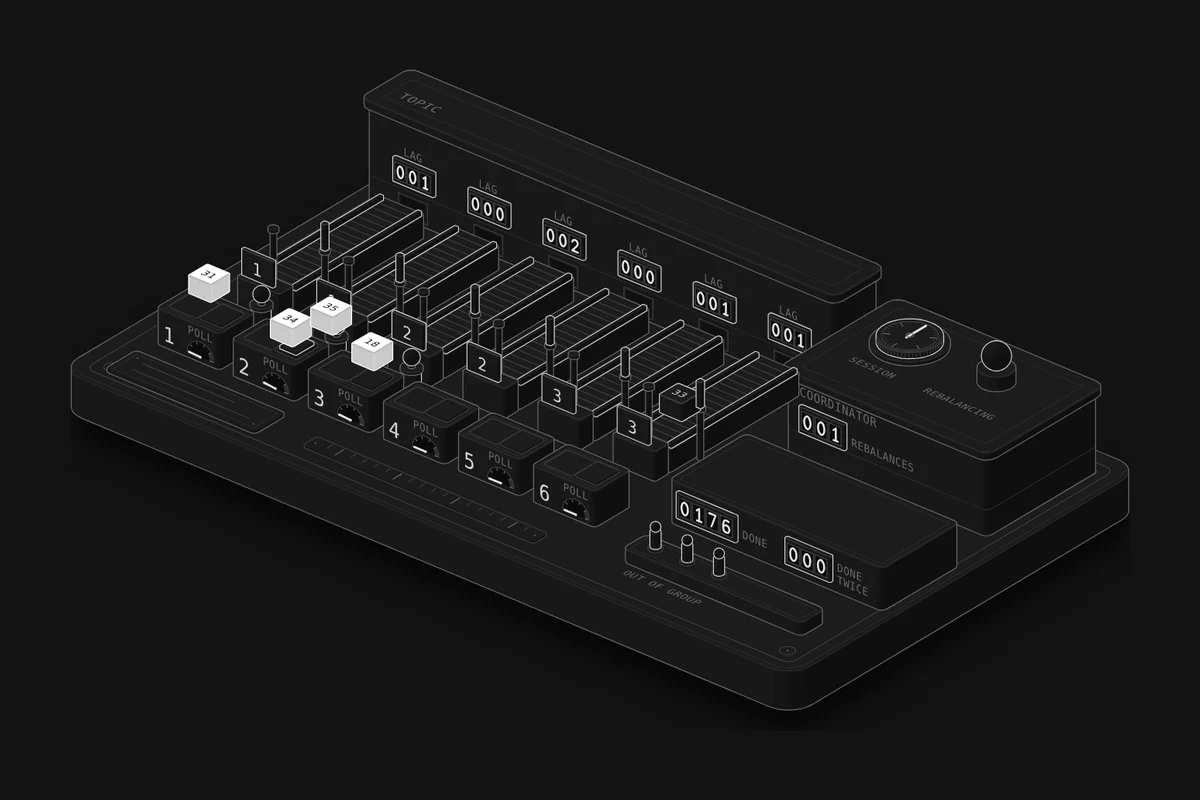
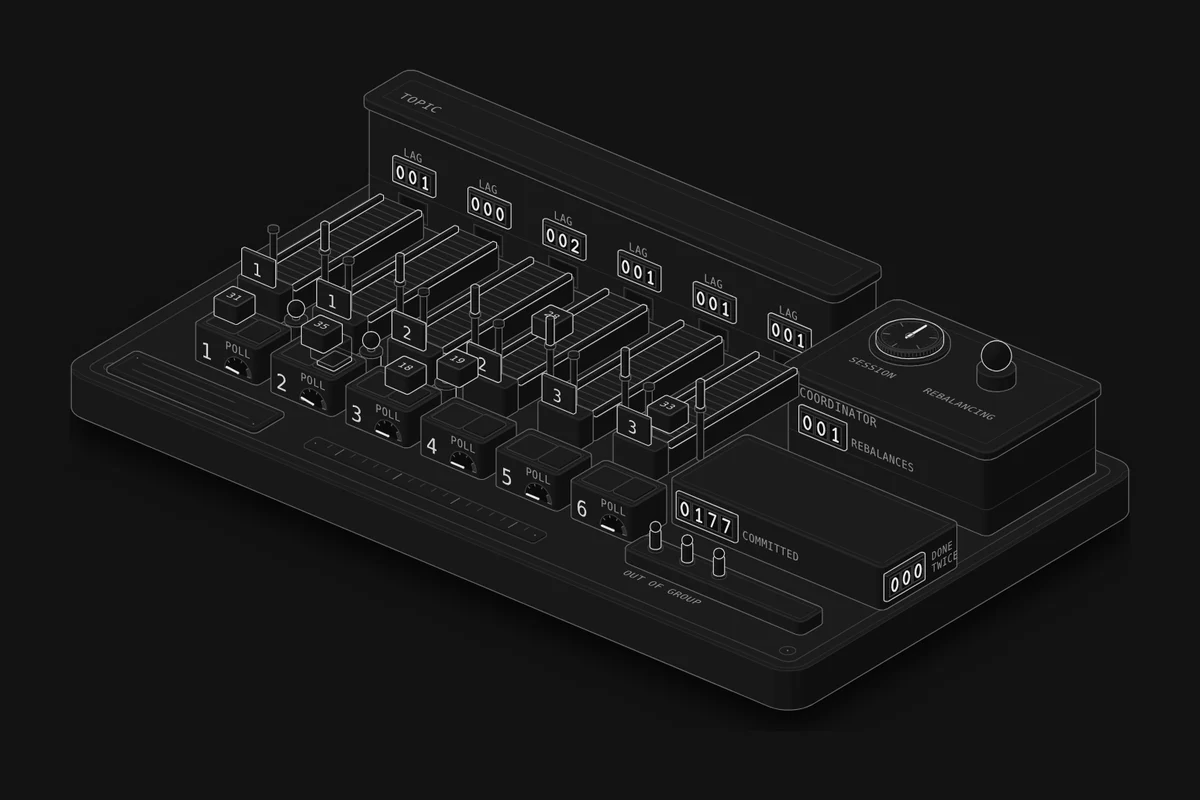
Lesson 71: fix review findings (desk row, eager readout, bench, COMMITTED, lit key, page weight)
- Desks sit in their own row, half a lane over, so no desk pairs with a lane.
- Eager readout counts the lanes stopped so far instead of saying every lane stops.
- A restarting static member stays off the OUT OF GROUP bench.
- COMMITTED on the cabinet front; DONE TWICE moved to its right face.
- Lit means a stop (gates, coordinator lamp). Crashed workers are unlit; a dropped worker is the bench's small figure.
- Deploy Watch at x1 so the first restart is under way at 7 s.
- Repeated drawings (workers, figures, slumped workers, slips) are drawn once and placed with <use>: 482 KB to 288 KB.
- Aria label: bench at the front right.

Claude-Session: https://claude.ai/code/session_01S5z2gCvevbrGU3fXgpGDmP

diff --git a/src/lessons/consumers/figure.ts b/src/lessons/consumers/figure.ts
@@ -4,12 +4,13 @@
 //   shows how many of its records are not committed yet;
 //   at the front end of each lane a sign shows the worker that owns it, and a gate drops across the lane while nobody
 //   reads it (a rebalance, a dead owner);
-//   six desks in front: a worker takes a record from one of its lanes, works it on the desk and piles the slip; the
+//   six desks in their own row in front, set half a lane over so no desk lines up with a lane (a worker reads whichever
+//   lanes it owns): a worker takes a record from one of its lanes, works it on the desk and piles the slip; the
 //   pile is the batch not committed yet, and it clears at the next poll (the commit). A meter on each desk shows the
 //   time since its last poll against the poll limit;
 //   the coordinator's booth at the right hands the lanes out: its lamp lights during a rebalance, its dial runs a
-//   silent member's session down, and counters show rebalances, records done and done twice;
-//   workers outside the group wait on the bench at the left.
+//   silent member's session down, and counters show rebalances, records committed and done twice;
+//   workers outside the group wait on the bench at the front right.
 // Built with the Anatomy kit (MIT, github.com/wheresryan22/anatomy) and the shared workbench parts.
 import * as k from "../../../workbench/kit.mjs";
 import { sphereOf } from "../../../workbench/kit.mjs";
@@ -43,10 +44,12 @@ const SIGN = { w: 11, h: 8 };
 export const GATE_Y = -23;
 const GATE_H = 15;
 
-// The desks, one in front of each lane; the worker stands behind it, to the right of the lane's end.
+// The desks, in a row of their own: each sits half a lane to the right of a lane's end, between two lanes, so no desk
+// belongs to a lane. The worker stands behind it, on its right.
 const DESK = { y: 8, d: 15, w: 22 };
 const DESK_H = 11;
-export const DESK_SPOT = (i) => [LANE_X[i] - 4, DESK.y + 7.5, DESK_H + 0.2];
+export const DESK_X = LANE_X.map((x) => x + 13);
+export const DESK_SPOT = (i) => [DESK_X[i] - 4, DESK.y + 7.5, DESK_H + 0.2];
 export const SLIP = { dx: 5.5, dy: 7.5, w: 6, d: 7.6, h: 0.75, n: 10 };
 const WORKER_Y = 1.5;
 
@@ -130,23 +133,38 @@ function stop(i) {
   return out.join("");
 }
 
+// ---------- drawings used many times: drawn once at the origin in <defs>, placed with <use> ----------
+// The projection is linear, so a drawing made at the origin and moved by translateAlong is the drawing made in place;
+// this keeps six workers, eleven small figures, six slumped workers and sixty slips from being written out one by one.
+const ID = "wbcg-";
+function defs() {
+  const slip = { x: -SLIP.w / 2, y: -SLIP.d / 2, w: SLIP.w, d: SLIP.d, r: 0.3 };
+  const fallenBody = S(k.slabOf({ x: -8.5, y: -2.8, w: 11, d: 5.6, r: 2.6 }, DESK_H, 3.6, P, 4, 1), { tone: "hi", crease: "lo" })
+    + S(sphereOf([5.6, 0, DESK_H + 2.5], 2.5, P), { tone: "hi", crease: "lo" });
+  return `<defs>`
+    + `<g id="${ID}person">${person(P, [0, 0, 0], { scale: 0.62 })}</g>`
+    + `<g id="${ID}figure">${figurine(P, [0, 0, 0], { scale: 0.62 })}</g>`
+    + `<g id="${ID}fallen">${fallenBody}</g>`
+    + `<g id="${ID}slip">${S(k.slabOf(slip, 0, SLIP.h, P, 1, 0.1), { tone: "hi", crease: "none" })}</g>`
+    + `</defs>`;
+}
+const use = (name, at) => `<use href="#${ID}${name}" transform="${k.translateAlong(P, at)}"/>`;
+
 // ---------- the workers ----------
-// Standing behind the desk (up), lying on the floor in front of it (crashed), or away (not drawn).
+// Standing behind the desk (up); out of the group but still finishing its batch, the small figure of the bench (out);
+// slumped over the desk (crashed); or away (not drawn).
 function worker(i) {
-  const x = LANE_X[i] + 7.5;
-  const up = person(P, [x, WORKER_Y, 0], { scale: 0.62 });
-  const out = litFill(person(P, [x, WORKER_Y, 0], { scale: 0.62, lit: true }));
+  const x = DESK_X[i] + 6.5;
+  const up = use("person", [x, WORKER_Y, 0]);
+  const out = use("figure", [x, WORKER_Y, 0]);
   return `<g data-worker="${i}"><g data-pose="up">${up}</g><g data-pose="out" style="display:none">${out}</g></g>`;
 }
 // A crashed worker slumps over the desk (the desk top is clear: its record and slips are lost with it).
 function fallen(i) {
-  const cx = LANE_X[i], y = DESK.y + 6;
-  const body = litFill(S(k.slabOf({ x: cx - 8.5, y: y - 2.8, w: 11, d: 5.6, r: 2.6 }, DESK_H, 3.6, P, 4, 1), { tone: "hi", crease: "lo", lit: true }));
-  const head = litFill(S(sphereOf([cx + 5.6, y, DESK_H + 2.5], 2.5, P), { tone: "hi", crease: "lo", lit: true }));
-  return `<g data-fallen="${i}" style="display:none">${body}${head}</g>`;
+  return `<g data-fallen="${i}" style="display:none">${use("fallen", [DESK_X[i], DESK.y + 6, 0])}</g>`;
 }
 function desk(i) {
-  const cx = LANE_X[i];
+  const cx = DESK_X[i];
   const plan = { x: cx - DESK.w / 2, y: DESK.y, w: DESK.w, d: DESK.d, r: 1.4 };
   const out = [`<g data-desk="${i}">`];
   out.push(S(k.slabOf(plan, 0, DESK_H, P, 3, 0.5), { tone: "mid", inner: L(k.planOutline(k.insetPlan(plan, 1.6), DESK_H, P), { tone: "faint" }) }));
@@ -162,12 +180,9 @@ function desk(i) {
 }
 // The slips of the batch worked but not committed, stacked on the tray (the live code shows the first n).
 function slips(i) {
-  const cx = LANE_X[i] + SLIP.dx, cy = DESK.y + SLIP.dy;
+  const cx = DESK_X[i] + SLIP.dx, cy = DESK.y + SLIP.dy;
   const out = [];
-  for (let n = 0; n < SLIP.n; n++) {
-    const plan = { x: cx - SLIP.w / 2, y: cy - SLIP.d / 2, w: SLIP.w, d: SLIP.d, r: 0.3 };
-    out.push(`<g data-slip="${n}" style="display:none">${S(k.slabOf(plan, DESK_H + 0.6 + n * SLIP.h, SLIP.h, P, 1, 0.1), { tone: "hi", crease: "none" })}</g>`);
-  }
+  for (let n = 0; n < SLIP.n; n++) out.push(`<g data-slip="${n}" style="display:none">${use("slip", [cx, cy, DESK_H + 0.6 + n * SLIP.h])}</g>`);
   return `<g data-slips="${i}">${out.join("")}</g>`;
 }
 
@@ -196,11 +211,15 @@ function counted(x, y, z, count, name, lines) {
   const words = lines.length === 1 ? [[lines[0], z + 1.3]] : [[lines[0], z + 3.4], [lines[1], z - 0.4]];
   return digitCounter(P, { x, y, z, count, w: c.w, h: c.h, gap: c.gap, pad: c.pad, name }) + words.map(([w, zz]) => text(right, y, zz, w)).join("");
 }
+// Records committed on the cabinet's front; records done twice on its right face (it reads toward the back).
 function cabinet() {
   const out = [S(k.slabOf(CAB, 0, CAB_H, P, 3, 0.5), { tone: "mid", inner: L(k.planOutline(k.insetPlan(CAB, 2), CAB_H, P), { tone: "faint" }) })];
-  const front = CAB.y + CAB.d;
-  out.push(counted(CAB.x + 3.4, front, 3.2, 4, "done", [t("DONE", "HECHOS")]));
-  out.push(counted(CAB.x + 41, front, 3.2, 3, "twice", [t("DONE", "DOS"), t("TWICE", "VECES")]));
+  const front = CAB.y + CAB.d, side = CAB.x + CAB.w;
+  out.push(counted(CAB.x + 3.4, front, 3.2, 4, "done", [t("COMMITTED", "CONFIRMADOS")]));
+  out.push(digitCounter(P, { x: side, y: front - 3, z: 3.2, count: 3, face: "x", w: 4.2, h: 5.6, gap: 0.6, pad: 1.1, name: "twice" }));
+  const right = front - 3 - (3 * 4.2 + 2 * 0.6 + 1.1 + 2.4);
+  out.push(faceText(P, [side, right, 6.6], t("DONE", "DOS"), { face: "x", size: CAP, tone: "mid" }));
+  out.push(faceText(P, [side, right, 2.8], t("TWICE", "VECES"), { face: "x", size: CAP, tone: "mid" }));
   return out.join("");
 }
 
@@ -211,7 +230,7 @@ function bench() {
   return out.join("");
 }
 function benchFolk() {
-  return BENCH_SPOTS.map((p, n) => `<g data-spare="${n}" style="display:none">${figurine(P, p, { scale: 0.62 })}</g>`).join("");
+  return BENCH_SPOTS.map((p, n) => `<g data-spare="${n}" style="display:none">${use("figure", p)}</g>`).join("");
 }
 
 // A record: a box with its offset on top, drawn at the origin and moved with translateAlong.
@@ -227,10 +246,11 @@ export function buildFigure() {
     width: WIDTH,
     height: HEIGHT,
     label: t(
-      "A sorting hall on a base plate. At the back, a long block labelled topic drops numbered records onto six roller lanes, its partitions; a lag counter above each lane's chute shows how many of that lane's records are not committed yet. At the front end of each lane, a sign shows the number of the worker that owns it, and a gate arm drops across the lane while nobody reads it. In front stand six numbered desks with a worker behind each; a worker takes a record from one of its lanes, works it on the desk and piles the slip on a tray; the pile clears when the batch is committed. A meter on each desk shows the time since the worker's last poll against the poll limit. At the right, the coordinator's booth has a lamp that lights during a rebalance, a session dial and a counter of rebalances, and a cabinet in front counts records done and done twice. At the left, a bench holds the workers outside the group.",
-      "Una sala de clasificación sobre una placa base. Atrás, un bloque largo con la palabra topic deja registros numerados sobre seis carriles de rodillos, sus particiones; un contador de lag sobre la boca de cada carril muestra cuántos registros de ese carril aún no están confirmados. En el extremo delantero de cada carril, un letrero muestra el número del trabajador dueño, y una barrera baja sobre el carril mientras nadie lo lee. Adelante hay seis escritorios numerados con un trabajador detrás de cada uno; un trabajador toma un registro de uno de sus carriles, lo procesa en el escritorio y apila el comprobante en una bandeja; la pila se vacía cuando se confirma el lote. Un medidor en cada escritorio muestra el tiempo desde el último poll del trabajador contra el límite de poll. A la derecha, la caseta del coordinador tiene una lámpara que se enciende durante un rebalanceo, un dial de sesión y un contador de rebalanceos, y un gabinete delante cuenta los registros hechos y hechos dos veces. A la izquierda, una banca reúne a los trabajadores fuera del grupo.",
+      "A sorting hall on a base plate. At the back, a long block labelled topic drops numbered records onto six roller lanes, its partitions; a lag counter above each lane's chute shows how many of that lane's records are not committed yet. At the front end of each lane, a sign shows the number of the worker that owns it, and a gate arm drops across the lane while nobody reads it. In front, in a row of their own set half a lane over from the lanes, stand six numbered desks with a worker behind each; a worker takes a record from one of its lanes, works it on the desk and piles the slip on a tray; the pile clears when the batch is committed. A meter on each desk shows the time since the worker's last poll against the poll limit. At the right, the coordinator's booth has a lamp that lights during a rebalance, a session dial and a counter of rebalances, and a cabinet in front counts records committed on its front and records done twice on its right side. At the front right, a bench holds the workers outside the group.",
+      "Una sala de clasificación sobre una placa base. Atrás, un bloque largo con la palabra topic deja registros numerados sobre seis carriles de rodillos, sus particiones; un contador de lag sobre la boca de cada carril muestra cuántos registros de ese carril aún no están confirmados. En el extremo delantero de cada carril, un letrero muestra el número del trabajador dueño, y una barrera baja sobre el carril mientras nadie lo lee. Adelante, en una fila propia corrida medio carril respecto de los carriles, hay seis escritorios numerados con un trabajador detrás de cada uno; un trabajador toma un registro de uno de sus carriles, lo procesa en el escritorio y apila el comprobante en una bandeja; la pila se vacía cuando se confirma el lote. Un medidor en cada escritorio muestra el tiempo desde el último poll del trabajador contra el límite de poll. A la derecha, la caseta del coordinador tiene una lámpara que se enciende durante un rebalanceo, un dial de sesión y un contador de rebalanceos, y un gabinete delante cuenta los registros confirmados en su frente y los hechos dos veces en su lado derecho. Adelante a la derecha, una banca reúne a los trabajadores fuera del grupo.",
     ),
     body: [
+      defs(),
       plate(),
       topic(),
       booth(),

diff --git a/src/lessons/consumers/page.ts b/src/lessons/consumers/page.ts
@@ -142,7 +142,8 @@ const EXPERIMENTS = [
       "A dynamic member leaves the group when it shuts down and joins as a new member when it comes back, so each restart costs two rebalances, " + n0(Dp.dynamic.rebalances) + " in all, and with eager rebalancing each one stops all six lanes for a moment. With a static id the coordinator keeps the member's place until its session timeout runs out: it comes back to the same lanes and nothing rebalances. The price is that its own lanes go unread for the whole restart, up to " + s1(Dp.static.longest) + " here against " + s1(Dp.dynamic.longest) + " at a time with rebalances, and a worker that never comes back holds its lanes until the timeout. Static membership pays off when moving lanes is expensive: big groups, eager assignors, workers that rebuild local state or warm a cache for every lane they get (Kafka Streams state stores, for example).",
       "Un miembro dinámico sale del grupo cuando se apaga y entra como miembro nuevo cuando vuelve, así que cada reinicio cuesta dos rebalanceos, " + n0(Dp.dynamic.rebalances) + " en total, y con el rebalanceo eager cada uno detiene los seis carriles un momento. Con un id estático, el coordinador le guarda el lugar al miembro hasta que vence su tiempo límite de sesión: vuelve a los mismos carriles y nada se rebalancea. El precio es que sus propios carriles quedan sin leer durante todo el reinicio, hasta " + s1(Dp.static.longest) + " aquí contra " + s1(Dp.dynamic.longest) + " seguidos con rebalanceos, y un trabajador que nunca vuelve retiene sus carriles hasta que vence el tiempo. La membresía estática vale la pena cuando mover carriles es caro: grupos grandes, asignadores eager, trabajadores que reconstruyen estado local o calientan una caché por cada carril que reciben (los state stores de Kafka Streams, por ejemplo).",
     ),
-    watch: { workers: 4, rate: 6, protocol: "eager", members: "static", session: 45, pollLimit: 10, slow: 1, speed: 3, then: "rolling" },
+    // at ×1 the first restart (from 1 s in, 8 s down) is under way at 7 s: its lanes stop, nothing rebalances
+    watch: { workers: 4, rate: 6, protocol: "eager", members: "static", session: 45, pollLimit: 10, slow: 1, speed: 1, then: "rolling" },
   },
   {
     id: "crash",
@@ -196,8 +197,8 @@ export default defineLesson({
     plate: {
       title: t("Sorting hall", "Sala de clasificación"),
       keys: [
-        { mark: "lit", label: t("A record being worked; a lane's gate while nobody reads it; the coordinator's lamp during a rebalance; a crashed worker, or one dropped from the group", "Un registro en proceso; la barrera de un carril mientras nadie lo lee; la lámpara del coordinador durante un rebalanceo; un trabajador caído o expulsado del grupo") },
-        { mark: "raised", label: t("Records: offset on top; slips on a desk: the batch worked but not committed", "Registros: offset arriba; comprobantes en un escritorio: el lote procesado pero sin confirmar") },
+        { mark: "lit", label: t("A stop: a lane's gate while nobody reads it; the coordinator's lamp during a rebalance", "Una detención: la barrera de un carril mientras nadie lo lee; la lámpara del coordinador durante un rebalanceo") },
+        { mark: "raised", label: t("Records: offset on top; slips on a desk: the batch worked but not committed; a small figure at a desk: a worker dropped from the group, finishing its batch", "Registros: offset arriba; comprobantes en un escritorio: el lote procesado pero sin confirmar; una figura pequeña en un escritorio: un trabajador expulsado del grupo que termina su lote") },
         { mark: "flat", label: t("Six lanes (partitions): the topic at the back, the owner's sign at the front end", "Seis carriles (particiones): el topic atrás, el letrero del dueño en el extremo delantero") },
       ],
       caption: t(

diff --git a/src/lessons/consumers/live.ts b/src/lessons/consumers/live.ts
@@ -100,7 +100,12 @@ export default function mount({ P, G, RECORD_SVG }, root) {
     const co = model.co, eager = model.cfg.protocol === "eager";
     if (co.state === "joining") {
       const waiting = model.slots.filter((s) => s.inGroup && !s.joined).length;
-      if (eager) return T("rebalance · every lane stops · waiting for " + waiting + " worker" + (waiting === 1 ? "" : "s") + " to finish a batch", "rebalanceo · todos los carriles paran · esperando a que " + waiting + " trabajador" + (waiting === 1 ? "" : "es") + " termine" + (waiting === 1 ? "" : "n") + " su lote");
+      // eager: each lane stops when its owner joins the round, so say how many have stopped so far
+      if (eager) {
+        const stopped = model.lanes.filter((l) => l.stopped).length;
+        const lanes = stopped === LANES ? T("all " + LANES + " lanes stopped", "los " + LANES + " carriles detenidos") : T(stopped + " of " + LANES + " lanes stopped so far", stopped + " de " + LANES + " carriles detenidos por ahora");
+        return T("eager rebalance · " + lanes.en + " · waiting for " + waiting + " worker" + (waiting === 1 ? "" : "s") + " to finish a batch", "rebalanceo eager · " + lanes.es + " · esperando a que " + waiting + " trabajador" + (waiting === 1 ? "" : "es") + " termine" + (waiting === 1 ? "" : "n") + " su lote");
+      }
       return T("cooperative rebalance, round " + co.round + " · lanes keep running · waiting for " + waiting + " to poll", "rebalanceo cooperativo, ronda " + co.round + " · los carriles siguen · esperando el poll de " + waiting);
     }
     if (co.state === "syncing") return T("everyone has joined · the coordinator hands out the lanes", "todos entraron · el coordinador reparte los carriles");
@@ -126,7 +131,7 @@ export default function mount({ P, G, RECORD_SVG }, root) {
     model.slots.forEach((s, i) => {
       if (s.state === "up" && s.cur) {
         const [li, off] = s.cur;
-        want("D" + i + ":" + li + ":" + off, off, G.DESK_SPOT[i], deskL, true, snap ? null : [G.LANE_X[li], G.SLOT_Y[0], H]);
+        want("D" + i + ":" + li + ":" + off, off, G.DESK_SPOT[i], deskL, false, snap ? null : [G.LANE_X[li], G.SLOT_Y[0], H]);
       }
       const p = people[i];
       show(p.up, s.state === "up" && s.inGroup); show(p.out, s.state === "up" && !s.inGroup); show(p.fallen, s.state === "crashed");
@@ -134,7 +139,8 @@ export default function mount({ P, G, RECORD_SVG }, root) {
       slips[i].forEach((el, k) => show(el, k < n));
       polls[i].set(s.state === "up" && s.batch.length ? (clock - s.lastPoll) / model.cfg.pollLimit : 0);
     });
-    const away = model.slots.filter((s) => s.state === "off" || s.state === "down").length;
+    // the bench holds workers away and out of the group: a static member restarting keeps its place in the group
+    const away = model.slots.filter((s) => (s.state === "off" || s.state === "down") && !s.inGroup).length;
     spares.forEach((el, n) => show(el, n < away));
     const co = model.co;
     show(lampOn, co.state !== "stable"); show(lampOff, co.state === "stable");
@@ -215,7 +221,7 @@ export default function mount({ P, G, RECORD_SVG }, root) {
     set("speed", String(w.speed || 1));
     restart();
     if (w.then === "add") model.at(clock + 4, () => model.addWorker());
-    if (w.then === "rolling") model.at(clock + 3, () => model.rolling(20));
+    if (w.then === "rolling") model.at(clock + 1, () => model.rolling(20));
     if (w.then === "crash") model.at(clock + 4, () => model.crash(1));
     wake();
   });
